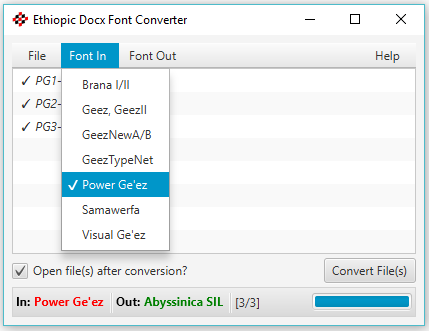
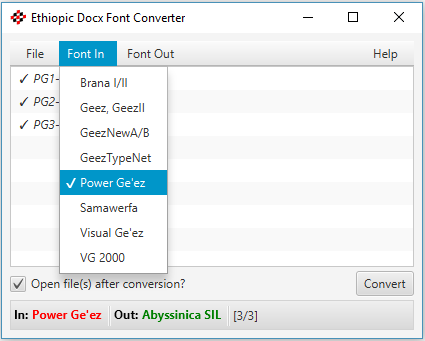
screenshot update

Changed region(s): [[0.0, 0.0, 1.0, 0.997], [0.3671, 0.3323, 0.3976, 0.3625]]

diff --git a/src/main/java/org/geez/convert/docx/ConvertDocx.java b/src/main/java/org/geez/convert/docx/ConvertDocx.java
@@ -417,6 +417,10 @@ abstract class ConvertDocx  implements Callable<Void> {
 			case "visualgeez":
 				converter = new ConvertDocxVisualGeez( inputFile, outputFile );
 				break;
+				
+			case "visualgeez2000":
+				converter = new ConvertDocxVisualGeez2000( inputFile, outputFile );
+				break;
 		
 			default:
 				System.err.println( "Unrecognized input system: " + systemIn );
